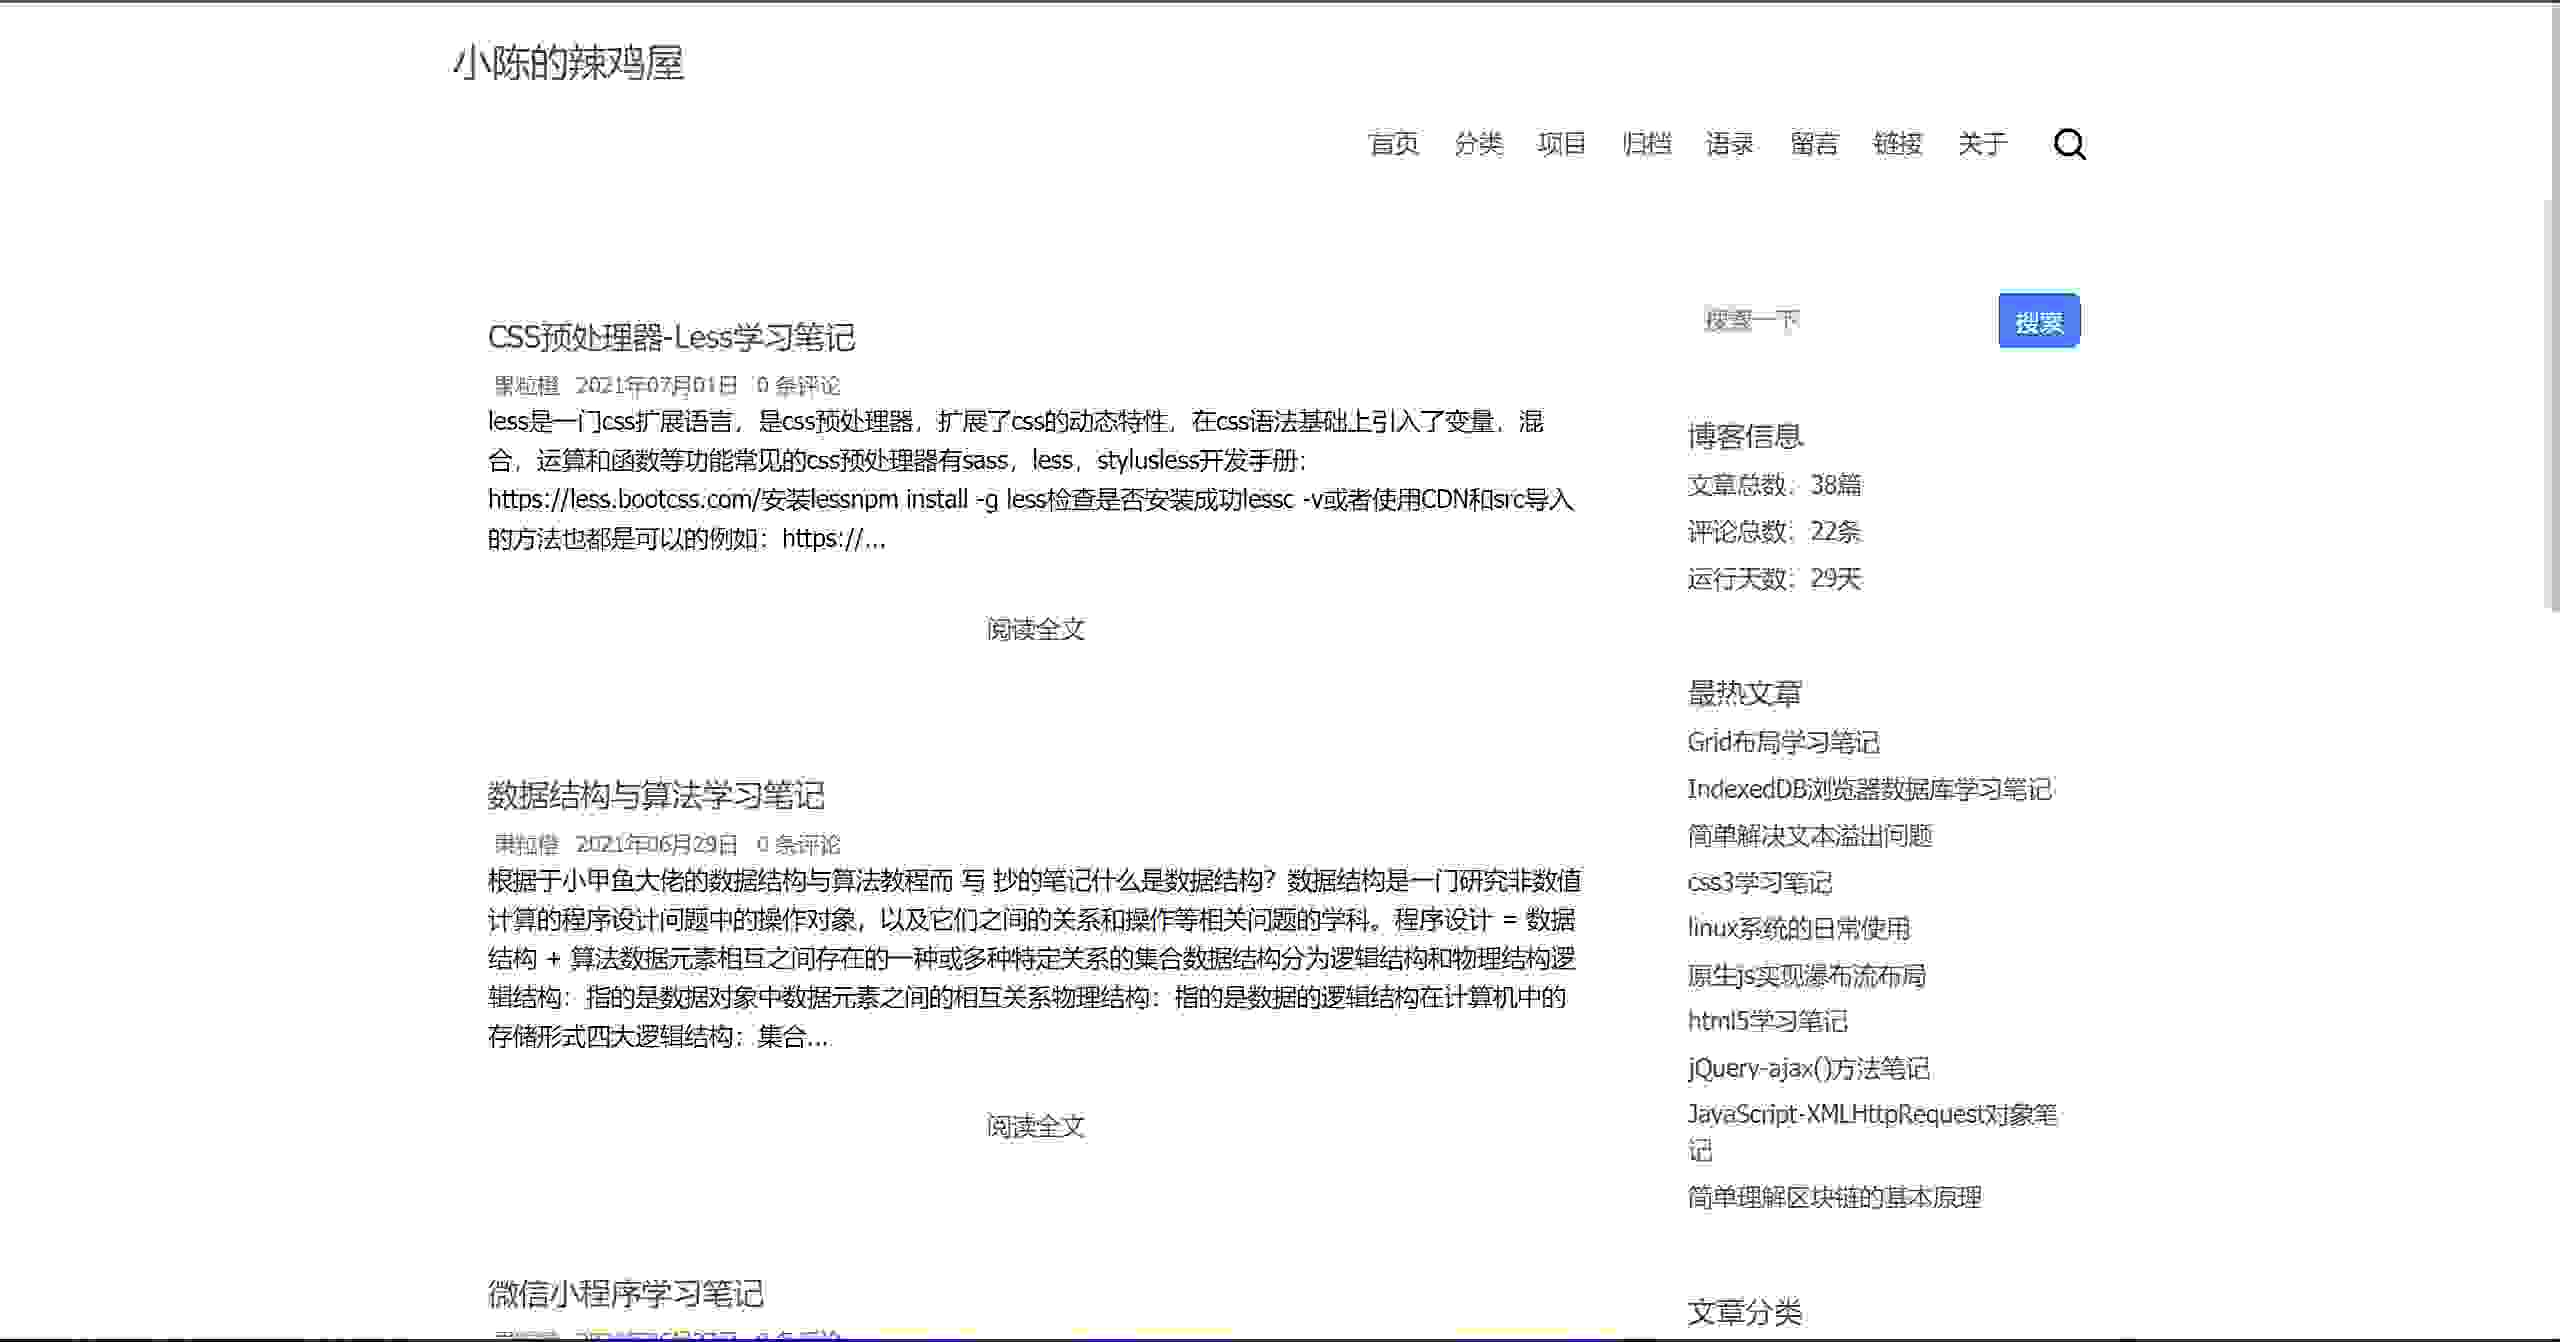
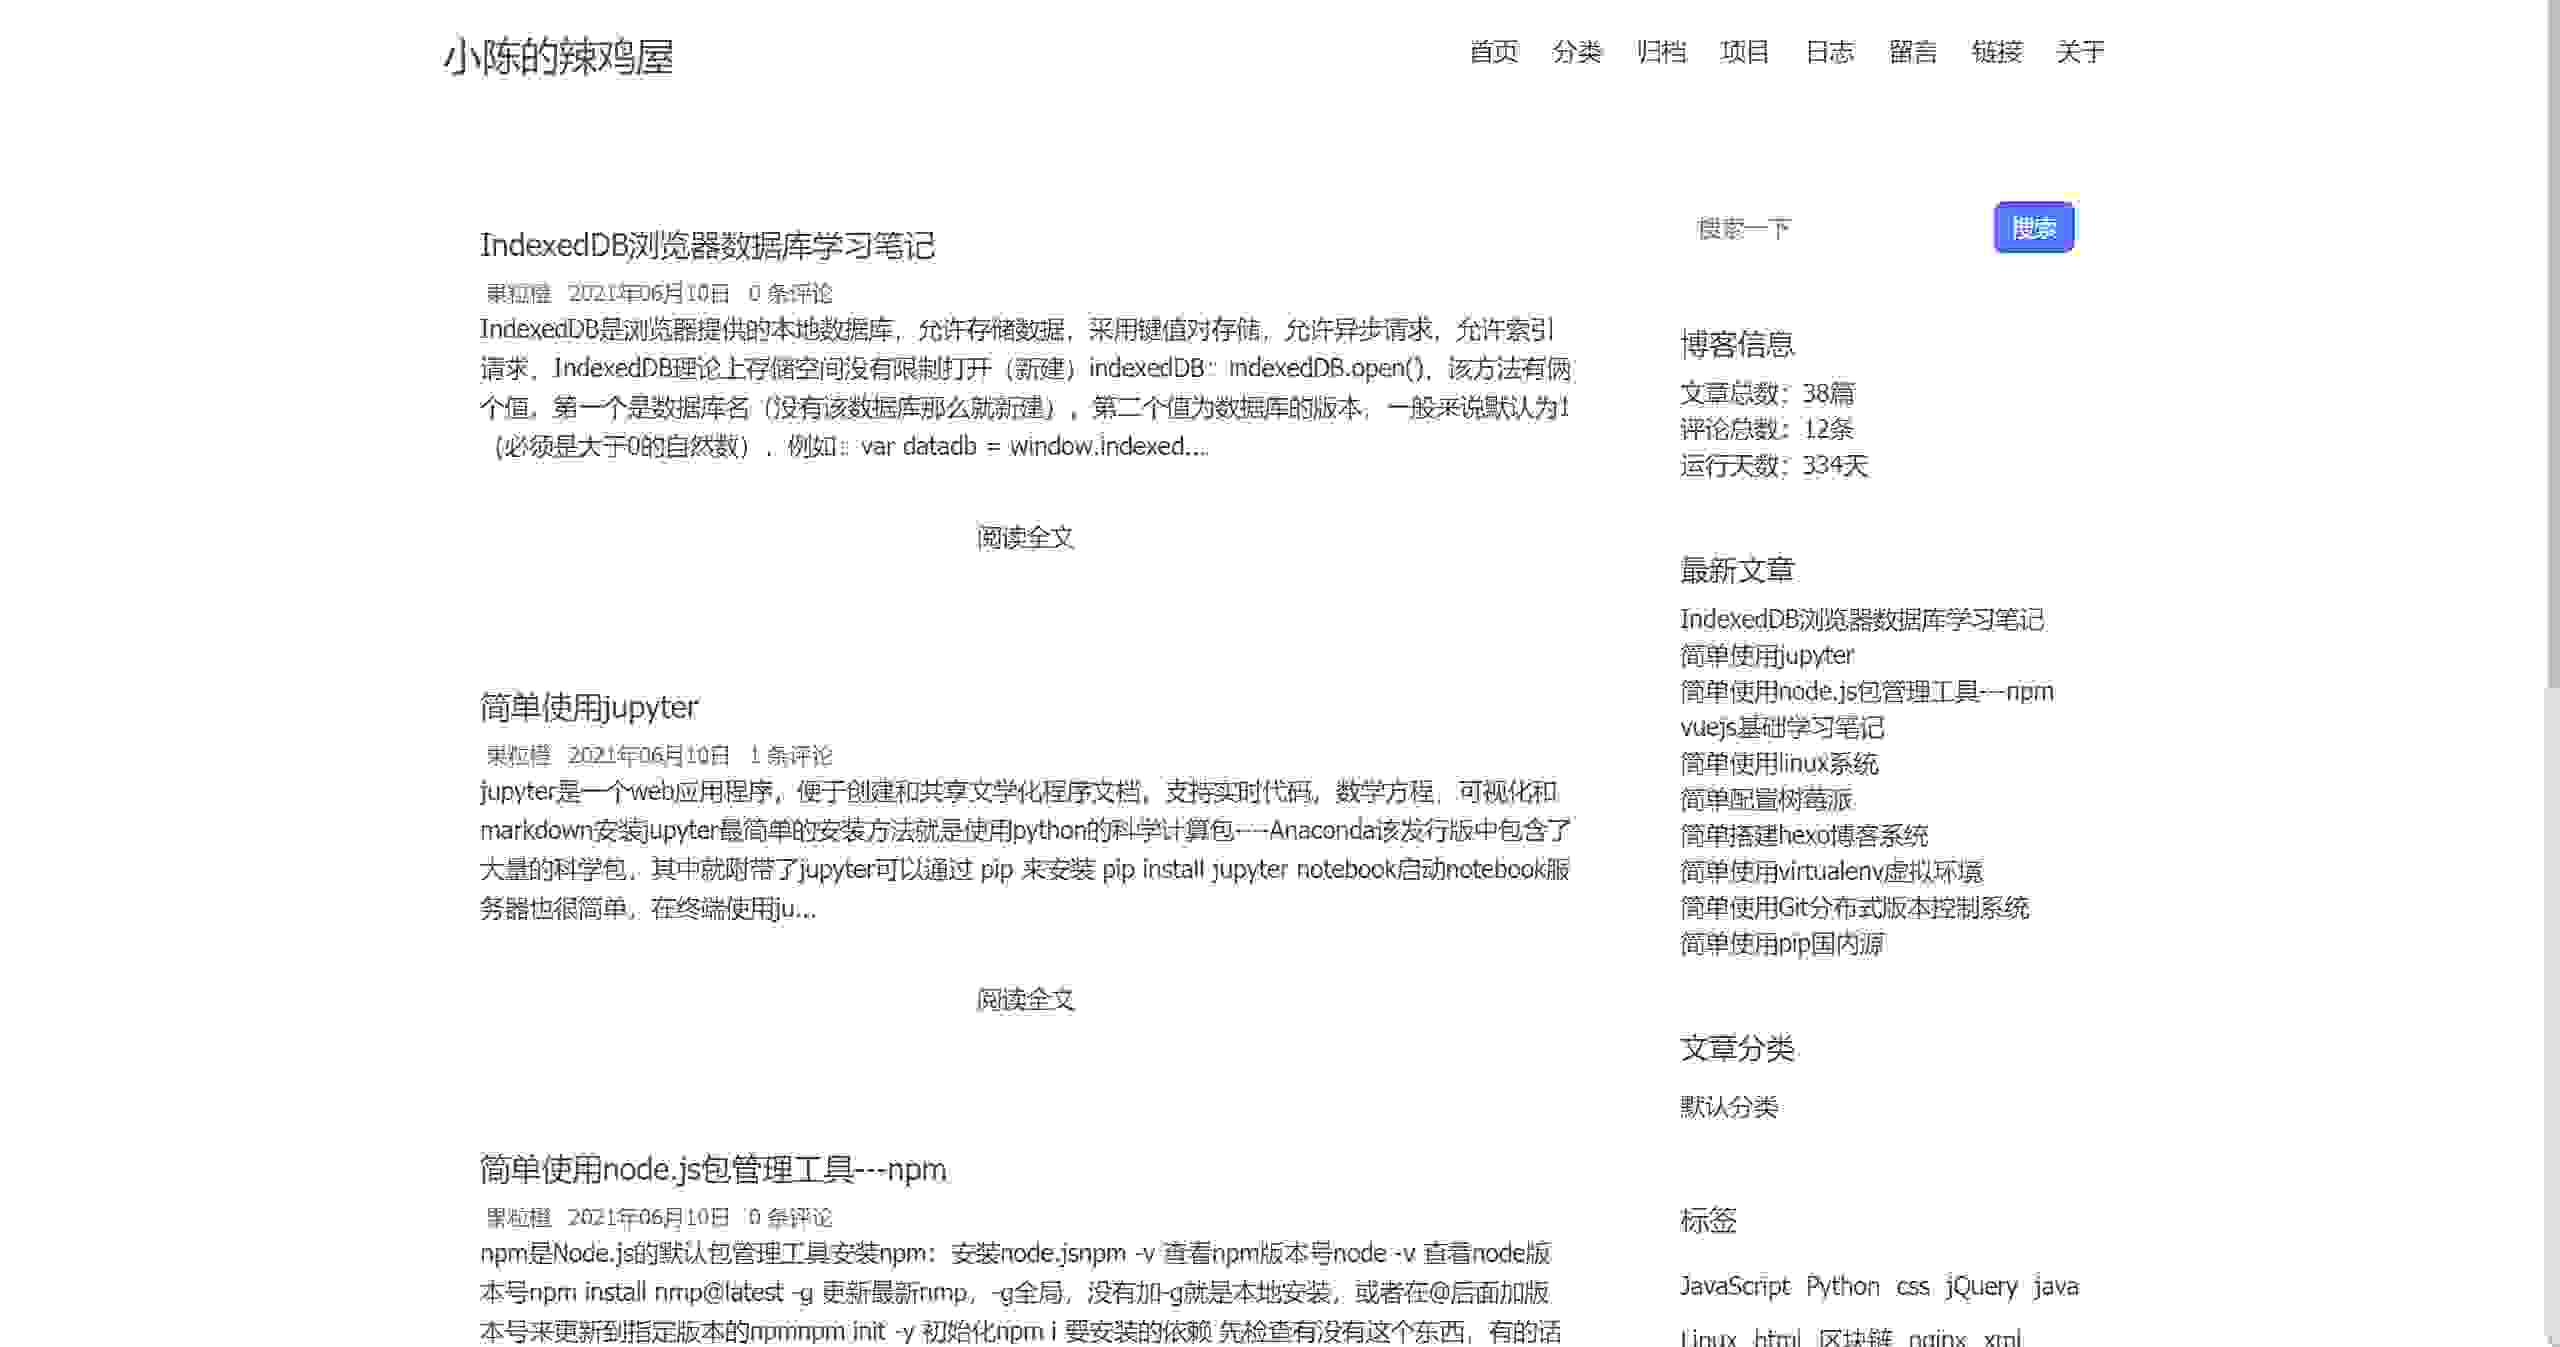
更新

diff --git a/style.css b/style.css
@@ -66,7 +66,7 @@ main{
 }
 #header{
     border-radius: 10px;
-    background-color: #fff
+    background-color: #fff;
 }
 #logo a{
     font-size: 22px;
@@ -98,6 +98,7 @@ main{
     transition: transform .5s ease-out;
     z-index: 999;
 }
+
 .post,.post-mains{
     margin-right: 20px;
     margin-bottom: 20px;
@@ -132,11 +133,11 @@ main{
     background-color: #f4f6fb;
     display: table-cell;
 }
-.aside-control{
-    width: 70%;
-}
 .post-nav {
     display: flex;
+}
+.aside-control{
+    width: 70%;
 }
 
 .form-control:focus,.textarea:focus,.form-info input:focus,input:focus{
@@ -438,7 +439,7 @@ pre{
     display: none;
 }
 
-.post-data .links li{
+.post-data .links li, .articles-data span a{
     padding: 10px;
     background-color: #ccc;
     border-radius: 8px;

diff --git a/main.js b/main.js
@@ -50,6 +50,8 @@ $(document).bind("click", function(a) {
     }
 })
 
+/* 点击事件，当该元素为隐藏状态，执行显示元素操作，否则（也是该元素为显示的状态）隐藏该元素 */
+
 
 
 

diff --git a/sidebar.php b/sidebar.php
@@ -29,28 +29,7 @@
         <h3><?php _e("文章分类")?></h3>
         <?php $this->widget('Widget_Metas_Category_List')->listCategories('wrapClass=sidebar-class'); ?>
     </section>
-    <section class="sidebar-main">
-        <h3><?php _e("标签")?></h3>
-        <ul class="label-main">
-            <?php $this->widget('Widget_Metas_Tag_Cloud', 'ignoreZeroCount=1&limit=30')->to($tags); ?>
-            <?php if($tags->have()): ?>
-            <?php while($tags->next()): ?>
-            <li class="label-main">
-                <a href="<?php $tags->permalink(); ?>"><?php $tags->name(); ?>
-                </a>
-            </li>
-            <?php endwhile; ?>
-            <?php else: ?>
-            <li>暂无标签</li>
-            <?php endif; ?>
-        </ul>
-    </section>
-    <section class="sidebar-main">
-        <h3><?php _e("归档")?></h3>
-        <ul>
-            <?php $this->widget('Widget_Contents_Post_Date', 'type=month&format=Y年 m月')->parse('<li><a href="{permalink}">{date}</a></li>'); ?>
-        </ul>
-    </section>
+    
     <section class="sidebar-main">
         <h3><?php _e("友情链接")?></h3>
         <ul class="links">
@@ -65,13 +44,18 @@
             <li><a href="https://www.abcio.cn/" target="_blank" rel="noopener noreferrer">清墨的橘</a></li>
             <li><a href="https://www.lx-blog.cn" target="_blank" rel="noopener noreferrer">流星Aday的博客</a></li>
             <li><a href="https://hq233.cn/" target="_blank" rel="noopener noreferrer">隔壁小胡的博客</a></li>
+            <li><a href="https://www.citrons.cn/" target="_blank" rel="noopener noreferrer">Citrons博客</a></li>
+            <li><a href="https://www.rz.sb" target="_blank" rel="noopener noreferrer">若志随笔</a></li>
+            <li><a href="https://www.m78.co/" target="_blank" rel="noopener noreferrer">星云馆</a></li>
+            <li><a href="https://jsun969.cn" target="_blank" rel="noopener noreferrer">螓首蛾眉</a></li>
+            <li><a href="https://flypig.xyz" target="_blank" rel="noopener noreferrer">阅读・阅己</a></li>
         </ul>
     </section>
     <section class="sidebar-main">
         <h3><?php _e("其它")?></h3>
         <ul>
             <li>
-                <a href="<?php $this->options->siteUrl(); ?>sitemap.xml">网站地图</a>
+                <a href="<?php $this->options->siteUrl(); ?>sitemap.xml"><?php _e('网站地图'); ?></a>
             </li>
             <li>
                 <a href="<?php $this->options->feedUrl(); ?>"><?php _e('文章 RSS'); ?></a> 

diff --git a/header.php b/header.php
@@ -13,13 +13,29 @@
         ), '', ' - '); ?><?php $this->options->title(); ?>
     </title>
     <meta name="google" content="notranslate"/>
-    <meta name="keywords" content="typecho,php,blog">
+    <meta name="keywords" content="typecho,php,blog,www.chenjunlin.me,chenjunlin.me,https://chenjunlin.me,小陈的辣鸡屋,chenjunlin,教程,经验,技术,笔记,博客,个人博客,个人网站,个人日记,个人网站">
     <meta name="description" content="Typecho 1.1/17.10.30">
+    <link rel="Shortcut Icon" href="https://chenjunlin.me/favicon.ico" type="image/x-icon" />
     <link rel="stylesheet" href="<?php $this->options->themeUrl('style.css'); ?>">
     <script charset="utf-8" src="https://cdn.jsdelivr.net/npm/jquery@3.6.0/dist/jquery.min.js"></script>
-    <script charset="utf-8" src="https://cdn.jsdelivr.net/npm/jquery-pjax@2.0.1/jquery.pjax.min.js"></script>
+   
+    <!--百度统计-->
+    <script>
+        var _hmt = _hmt || [];
+        (function() {
+        var hm = document.createElement("script");
+        hm.src = "https://hm.baidu.com/hm.js?626bf8c65e4659fe458caf20874057d9";
+        var s = document.getElementsByTagName("script")[0]; 
+        s.parentNode.insertBefore(hm, s);
+        })();
+    </script>
+
 </head>
 <body class="body" id="body">
+    
+    <div style="display:none; z-index:999; background-color: #ccc; position:fixed; top:0px; width:100%; height:100vh;" class="pjax_main">
+    </div>
+
 <a id="add"></a>
 <header id="header" class="header">
     <div id="nav" class="container">

diff --git a/page-label.php b/page-label.php
@@ -1,3 +1,14 @@
+
+
+
+
+<?php
+/**
+ * 标签
+ *
+ * @package custom
+ */
+?>
 <?php if(!defined('__TYPECHO_ROOT_DIR__')) exit; ?>
 <?php $this -> need('header.php');?>
 <main class="ajaxdata">
@@ -18,9 +29,20 @@
                 </h3>
                 <!--输出文章内容-->
                 <div class="post-article">
-                    <p class="article-main">
-                        <?php $this->content(); ?>
-                    </p>
+                    <ul class="label-main">
+                        <?php $this->widget('Widget_Metas_Tag_Cloud', 'ignoreZeroCount=1&limit=30')->to($tags); ?>
+                        <?php if($tags->have()): ?>
+                        <?php while($tags->next()): ?>
+                        <li class="label-main">
+                            <a href="<?php $tags->permalink(); ?>">
+                                <?php $tags->name(); ?>
+                            </a>
+                        </li>
+                        <?php endwhile; ?>
+                        <?php else: ?>
+                        <li>暂无标签</li>
+                        <?php endif; ?>
+                    </ul>
                 </div>
             </div>
             <?php $this->need('comments.php'); ?>

diff --git a/page-links.php b/page-links.php
@@ -47,6 +47,11 @@ if(!defined('__TYPECHO_ROOT_DIR__')) exit; ?>
                         <li><a href=" https://www.abcio.cn/" target="_blank" rel="noopener noreferrer">清墨的橘</a></li>
                         <li><a href="https://www.lx-blog.cn" target="_blank" rel="noopener noreferrer">流星Aday的博客</a></li>
                         <li><a href="https://hq233.cn/" target="_blank" rel="noopener noreferrer">隔壁小胡的博客</a></li>
+                        <li><a href="https://www.citrons.cn/" target="_blank" rel="noopener noreferrer">Citrons博客</a></li>
+                        <li><a href="https://www.rz.sb" target="_blank" rel="noopener noreferrer">若志随笔</a></li>
+                        <li><a href="https://www.m78.co/" target="_blank" rel="noopener noreferrer">星云馆</a></li>
+                        <li><a href="https://jsun969.cn" target="_blank" rel="noopener noreferrer">螓首蛾眉</a></li>
+                        <li><a href="https://flypig.xyz" target="_blank" rel="noopener noreferrer">阅读・阅己</a></li>
                     </ul>
                     
                 </div>

diff --git a/footer.php b/footer.php
@@ -11,14 +11,16 @@
        </div>
     </div>
 </footer>
+    
+    
+    <script charset="utf-8" src="https://cdn.jsdelivr.net/npm/jquery-pjax@2.0.1/jquery.pjax.min.js"></script>
+    
+    
 
-<div style="display:none; z-index:999; background-color: #ccc; position:fixed; top:0px; width:100%; height:100vh;" class="pjax_main">
-</div>
 
-
-
-
+    <!--页面pjax-->
 <script>
+    
     function getBaseUrl() {
 		let ishttps = 'https:' == document.location.protocol ? true : false;
 		let url = window.location.host;
@@ -37,7 +39,7 @@
 	})
 	$(document).on('pjax:start', function () { 
 		$(".nav-menu").css("display","none");
-
+    
 	});
 
 	$(document).on('pjax:end', function () { 
@@ -45,9 +47,8 @@
 	
 	});
 </script>
-
-
-<script charset="utf-8" src="<?php $this->options->themeUrl('main.js'); ?>"></script>
+    
+    <script charset="utf-8" src="<?php $this->options->themeUrl('main.js'); ?>"></script>
 
 
 </body>

diff --git a/page-archives.php b/page-archives.php
@@ -25,6 +25,10 @@
                 </h3>
                 <!--输出文章内容-->
                 <div class="post-article">
+                    <div class="articles-data">
+                        <?php $this->widget('Widget_Contents_Post_Date', 'type=month&format=Y年 m月')->parse('<span><a href="{permalink}">{date}</a></span>'); ?>
+                    </div>
+                    
                     <p class="articles-main">
                         <?php
                             $this->widget('Widget_Contents_Post_Recent', 'pageSize=10000')->to($archives);
@@ -50,6 +54,7 @@
                                 echo $output;
                         ?>
                     </p>
+
                 </div>
                 
             </div>

diff --git a/archive.php b/archive.php
@@ -2,7 +2,7 @@
 if (!defined('__TYPECHO_ROOT_DIR__')) exit;
 $this->need('header.php');
 ?>
-<main>
+<main class="ajaxdata">
     <div class="container">
 	    <article id="article" class="article">
             <div class="post-mains"><a href="<?php $this->options->siteUrl(); ?>">首页</a> &raquo; <?php $this->archiveTitle(array(

diff --git a/functions.php b/functions.php
@@ -75,6 +75,7 @@ function  art_count ($cid){
         }
         return $r;
     }
+    
 
 function getHotComments($limit = 10){
     $db = Typecho_Db::get();
@@ -94,6 +95,11 @@ function getHotComments($limit = 10){
         }
     }
 }
+
+
+
+
+
 
 
 

diff --git a/page-whisper.php b/page-whisper.php
@@ -22,7 +22,7 @@
             
            
         
-        <?php $this -> need('post-comments.php');?>
+            <?php $this -> need('post-comments.php');?>
             
         </div>
         <?php $this -> need('sidebar.php');?>
